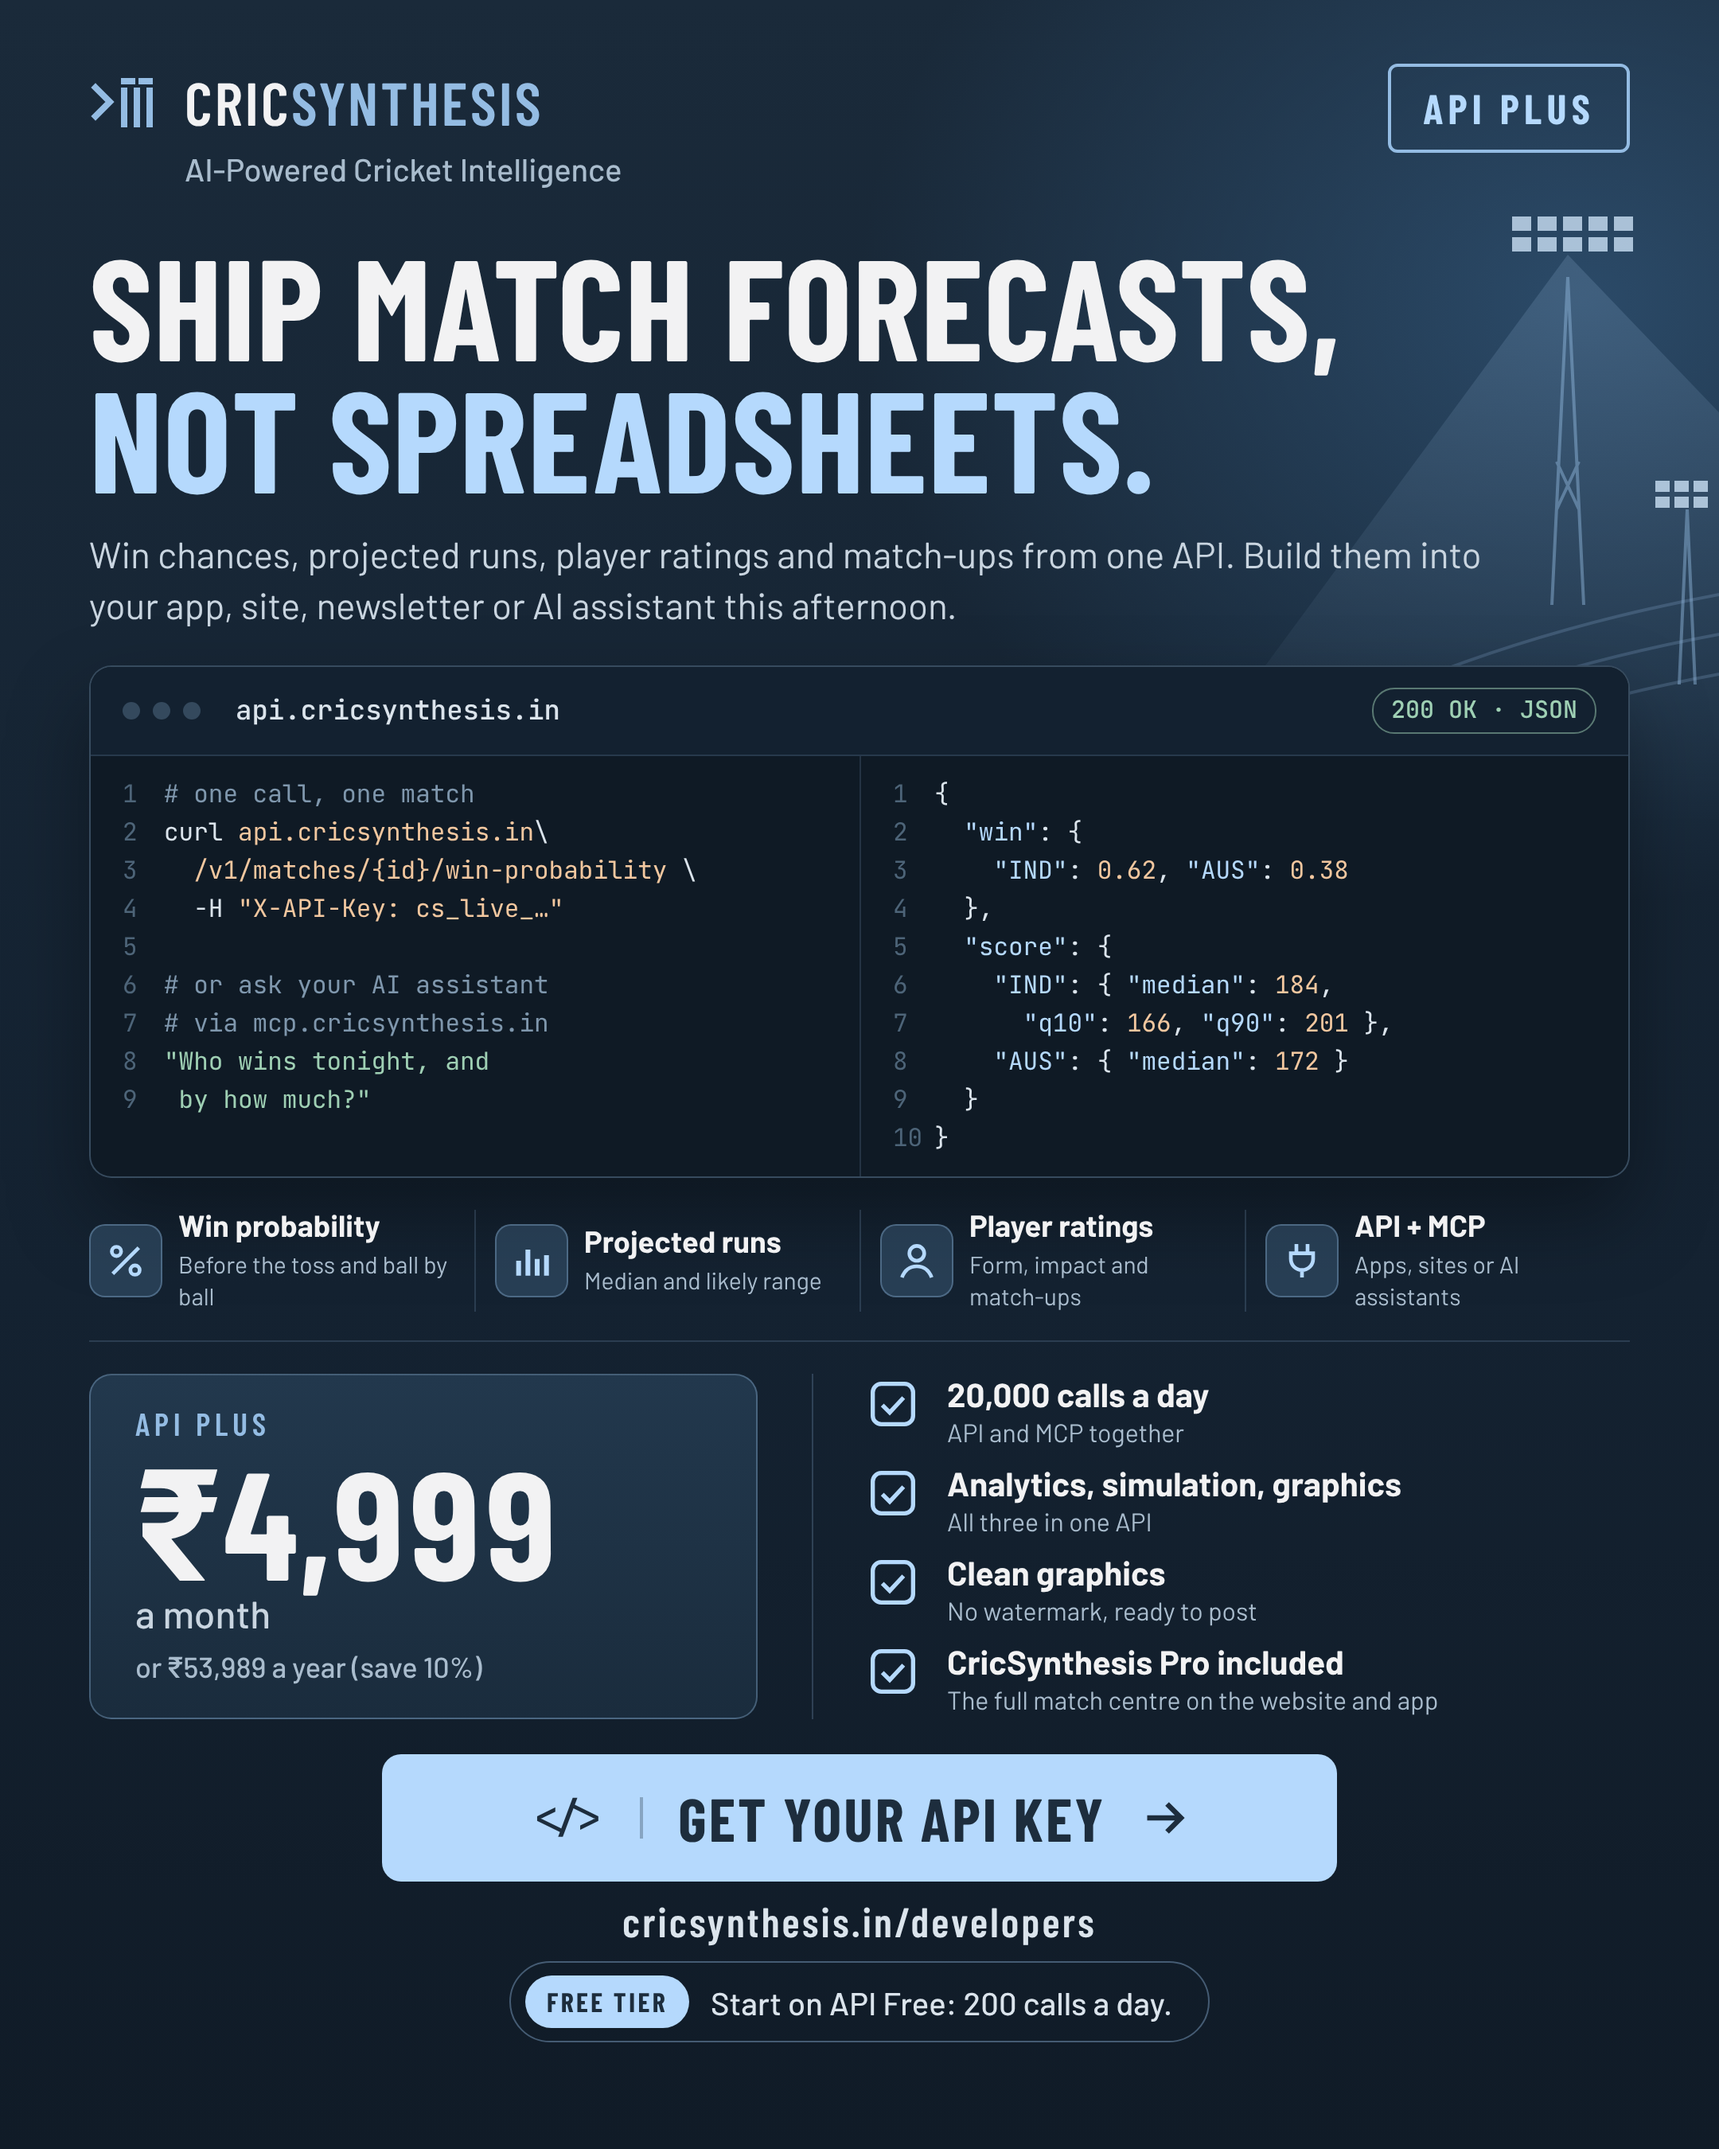
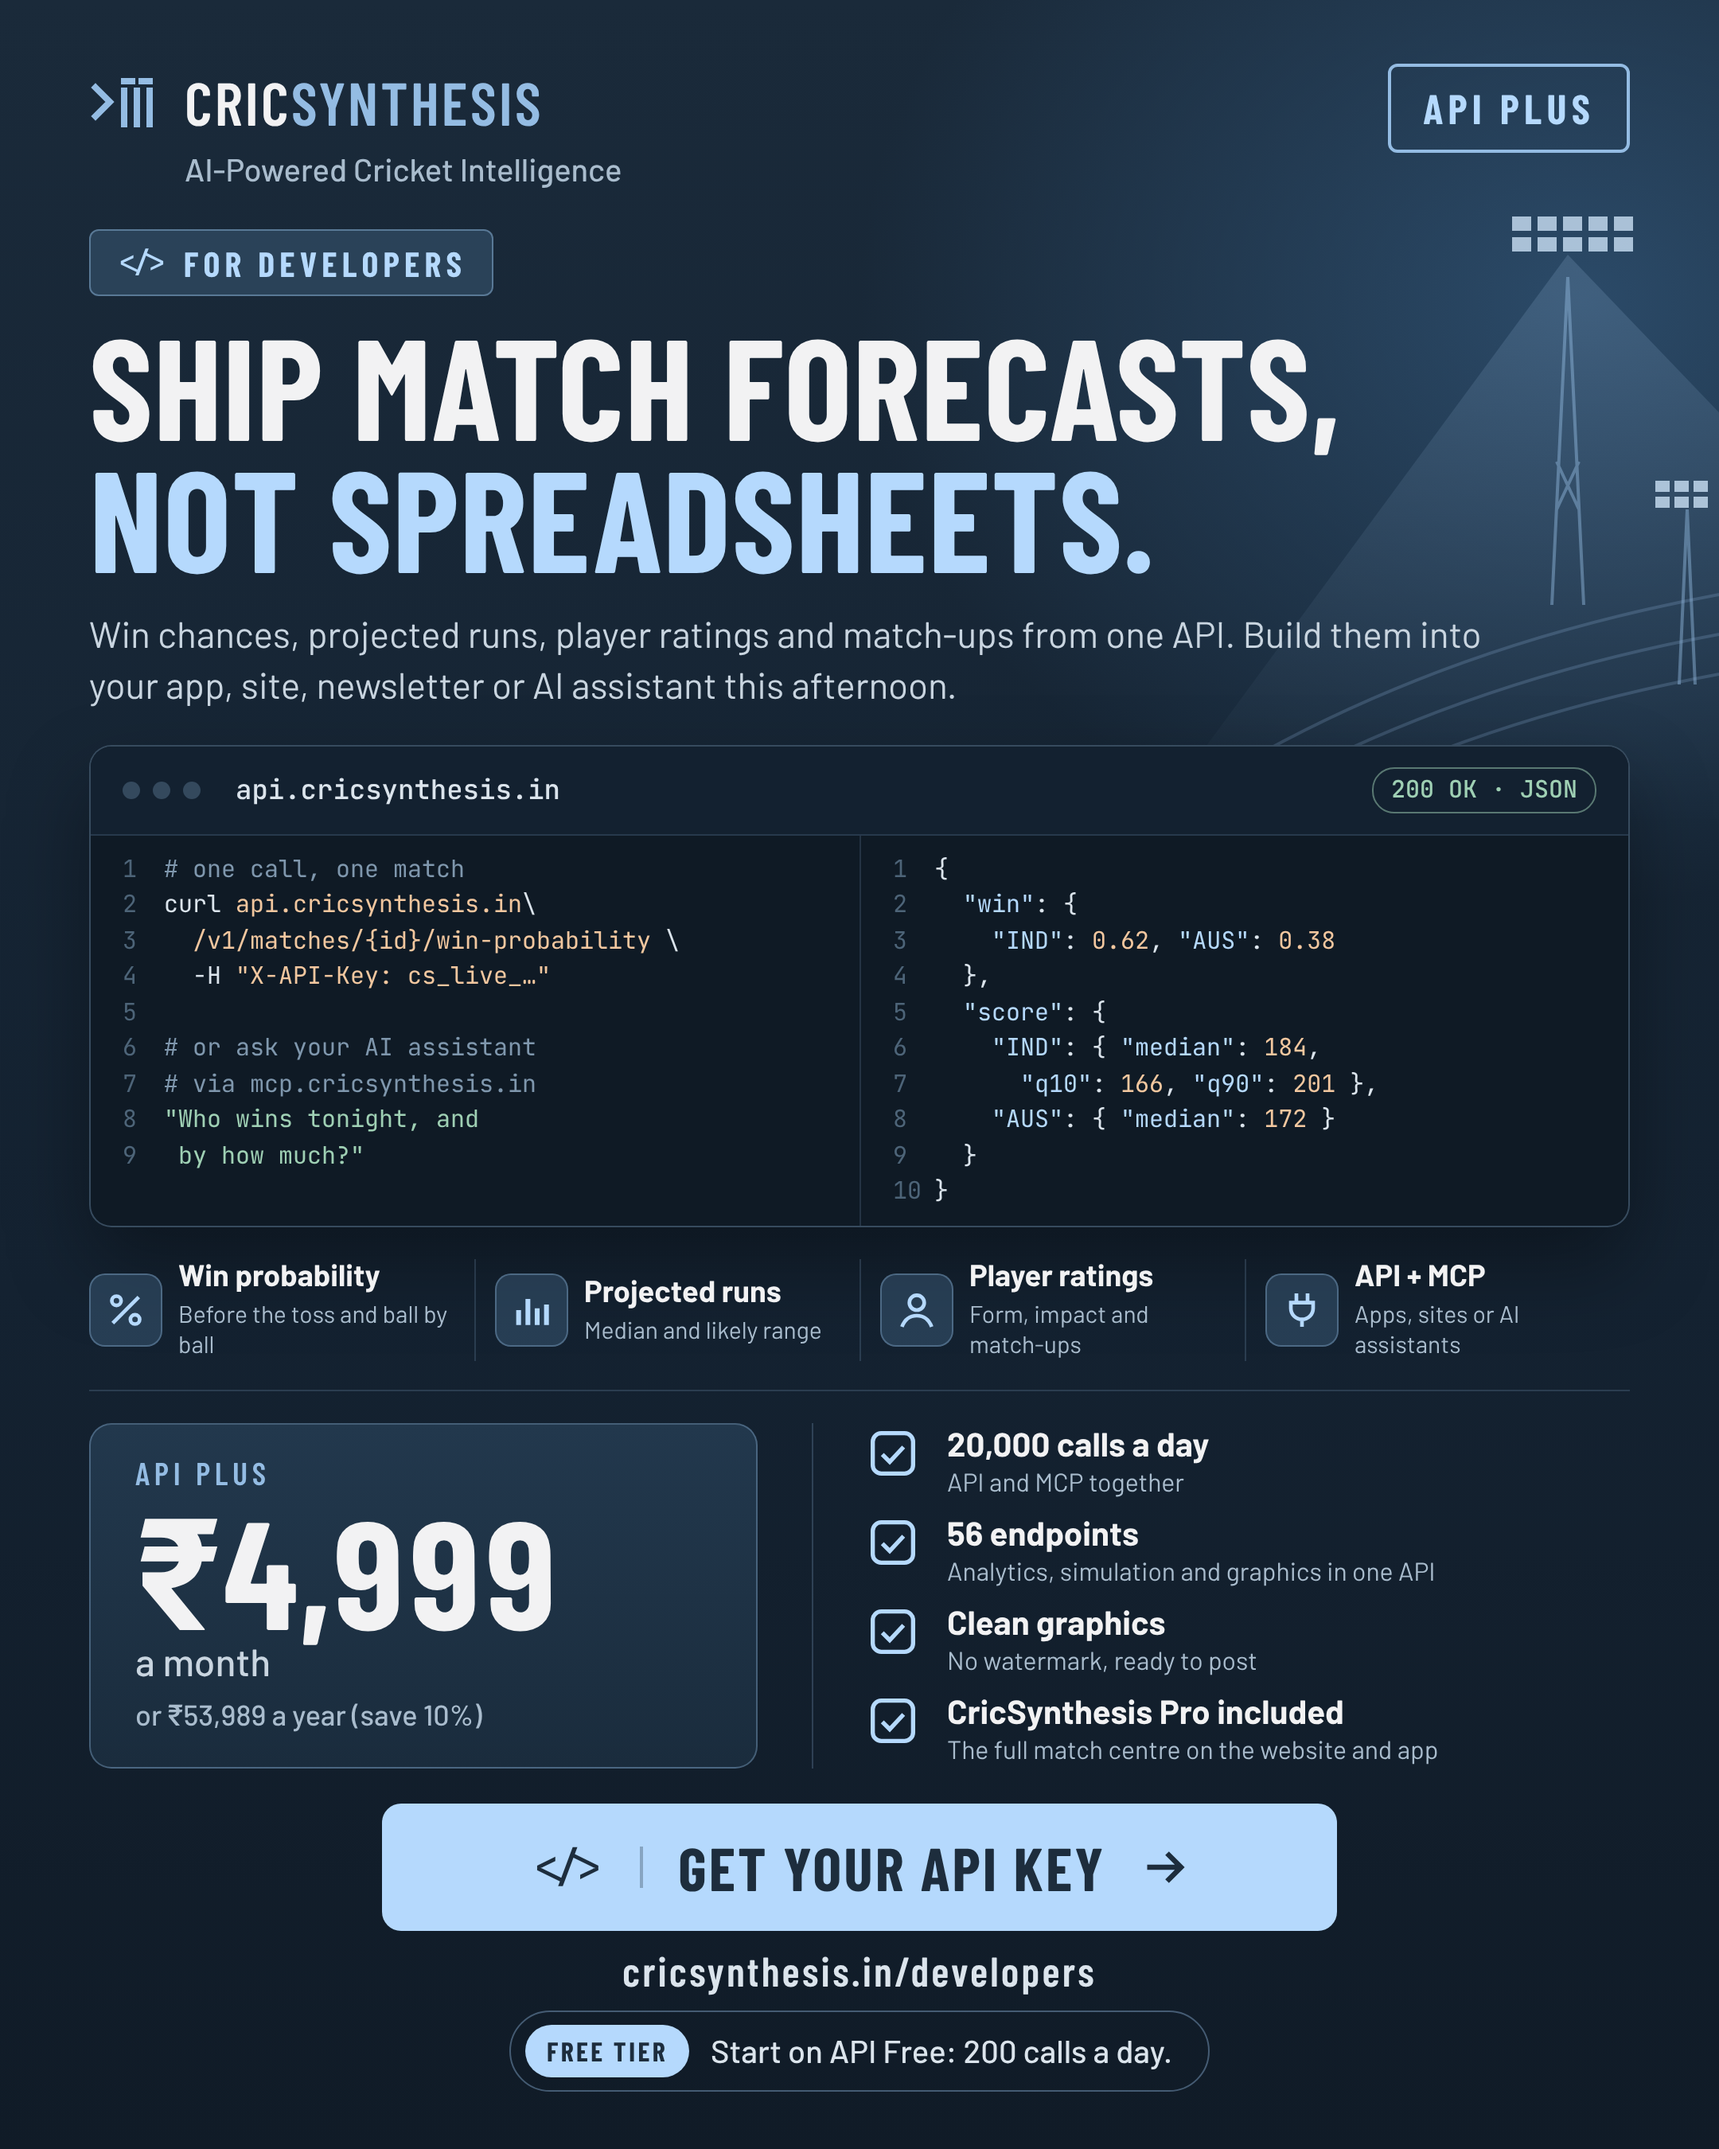
API Plus dark poster: For developers tag and 56 endpoints
Claude-Session: https://claude.ai/code/session_01DtYK7t4cwHWwRbQiwwp7NB

Changed region(s): [[0.031, 0.0933, 0.9616, 0.9644], [0.5583, 0.3733, 0.7755, 0.5289], [0.7134, 0.56, 0.8685, 0.6533]]

diff --git a/marketing/posters/api-plus-dark.html b/marketing/posters/api-plus-dark.html
@@ -15,7 +15,9 @@ body{background:#777}
 .lock svg{width:48px;height:48px;color:var(--s4)}.lock b{font-weight:600;color:var(--s4)}
 .tagl{font:500 20px/1 var(--body);color:var(--mut);margin:8px 0 0 60px}
 .badge{border:2px solid var(--s4);color:var(--s3);font:700 26px/1 var(--head);letter-spacing:.12em;text-transform:uppercase;padding:13px 20px;border-radius:6px}
-h1{position:relative;margin-top:34px;font:700 90px/.92 var(--head);text-transform:uppercase;letter-spacing:.004em}
+.eye{position:relative;margin-top:28px;display:inline-flex;align-self:flex-start;align-items:center;gap:10px;background:rgba(65,97,128,.45);border:1px solid rgba(148,188,227,.45);color:var(--s3);font:700 22px/1 var(--head);letter-spacing:.14em;text-transform:uppercase;padding:9px 16px;border-radius:6px}
+.eye span{font:500 18px/1 var(--mono);letter-spacing:0}
+h1{position:relative;margin-top:14px;font:700 90px/.92 var(--head);text-transform:uppercase;letter-spacing:.004em}
 h1 span{display:block;color:var(--s3)}
 .sub{position:relative;margin-top:16px;font:400 23px/1.4 var(--body);color:#c9d5e0;max-width:900px}
 .code{position:relative;margin-top:22px;background:#0f1a25;border:1px solid rgba(148,188,227,.3);border-radius:14px;overflow:hidden;box-shadow:0 24px 50px rgba(0,0,0,.35)}
@@ -24,7 +26,7 @@ h1 span{display:block;color:var(--s3)}
 .code .bar span{margin-left:14px;font:500 17px/1 var(--mono);color:#dbe4ec}
 .code .bar em{margin-left:auto;font:500 15px/1 var(--mono);font-style:normal;color:#9fd0b4;border:1px solid rgba(159,208,180,.5);padding:6px 11px;border-radius:14px}
 .code .cols{display:grid;grid-template-columns:1fr 1fr}
-.code pre{padding:12px 20px;font:400 15.5px/1.55 var(--mono);color:#dbe4ec;white-space:pre;counter-reset:l}
+.code pre{padding:10px 20px;font:400 15px/1.5 var(--mono);color:#dbe4ec;white-space:pre;counter-reset:l}
 .code pre+pre{border-left:1px solid rgba(148,188,227,.16)}
 .code .ln{color:#4d6478;display:inline-block;width:26px}
 .c{color:#7f97ad}.s{color:#f2c79f}.n{color:var(--s3)}.g{color:#9fd0b4}
@@ -85,6 +87,7 @@ h1 span{display:block;color:var(--s3)}
     <div><div class="lock"><svg><use href="#mark"/></svg><span>CRIC<b>SYNTHESIS</b></span></div><div class="tagl">AI-Powered Cricket Intelligence</div></div>
     <div class="badge">API Plus</div>
   </div>
+  <div class="eye"><span>&lt;/&gt;</span>For developers</div>
   <h1>Ship match forecasts,<span>not spreadsheets.</span></h1>
   <p class="sub">Win chances, projected runs, player ratings and match-ups from one API. Build them into your app, site, newsletter or AI assistant this afternoon.</p>
 
@@ -125,7 +128,7 @@ h1 span{display:block;color:var(--s3)}
     <div class="sep"></div>
     <ul class="list">
       <li><svg><use href="#chk"/></svg><div><b>20,000 calls a day</b><span>API and MCP together</span></div></li>
-      <li><svg><use href="#chk"/></svg><div><b>Analytics, simulation, graphics</b><span>All three in one API</span></div></li>
+      <li><svg><use href="#chk"/></svg><div><b>56 endpoints</b><span>Analytics, simulation and graphics in one API</span></div></li>
       <li><svg><use href="#chk"/></svg><div><b>Clean graphics</b><span>No watermark, ready to post</span></div></li>
       <li><svg><use href="#chk"/></svg><div><b>CricSynthesis Pro included</b><span>The full match centre on the website and app</span></div></li>
     </ul>
